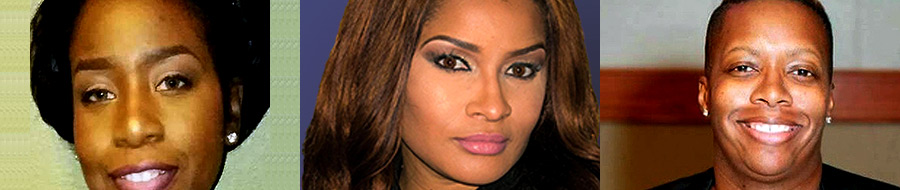
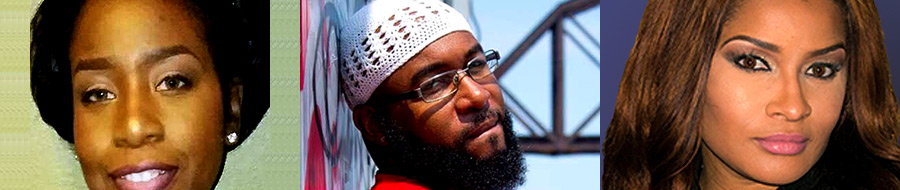
1.27 - Lets Talk Confidence removed

diff --git a/index.htm b/index.htm
@@ -6,10 +6,10 @@
     <meta name="keywords" content="KOVL Radio, St. Louis, Rulers Over the Land, Live with RaeJ, The Easy Treatment Lounge,
                                    Private Times, The Twinz &rsquo;R Inn, Brown Shuga Sunday Brunch, 
                                    Food for your Soul, Friday Forum for Relationships, The Dressing Room, 
-                                   Let's Talk About Confidence, Imagine That, Truth Muzic, What We Doing, 
+                                   Imagine That, Truth Muzic, What We Doing, 
                                    RaeJ Johnson, Eric Weathersby, Bobby Bouch&#233;, Stacy Artice, Tracy Richardson, 
                                    Jamel Johnson, Tyree Thomas, Shernetta Bouier-Blue, Dr. Sandra Michael-Johnson, Sabrina Doss, 
-                                   Michelle Archibald, Qwest, Henry Sims">
+                                   Qwest, Henry Sims">
     <meta name="description" content="KOVLRADIO.COM was founded by two individuals who have a passion for getting their voices heard 
                                       and information to the masses. Utilizing devices such as cellphones, tablets, laptops and 
                                       desktops, these two individuals want to bring you the most in entertainment media! Housed 
@@ -28,7 +28,7 @@
     <link href="assets/bootstrap/css/bootstrap.css" rel="stylesheet">
 
     <!-- Custom CSS -->
-    <link href="assets/css/style.css?v=21" rel="stylesheet">
+    <link href="assets/css/style.css?v=22" rel="stylesheet">
   </head>
   <body>
 		<div id="contact-confirmation_message">
@@ -174,36 +174,6 @@
             <div class="link-listen_now">
               <a href="#" title="Listen Now" onclick="routeToShow();">Listen Now</a>
             </div>
-            <img class="d-block img-fluid" src="assets/img/splash/imagine.jpg?v=2" alt="Imagine That with Dr. Sandra Michael-Johnson">
-            <div class="carousel-item-content" id="carousel-imagine">
-              <!-- <span>
-                Monday Motivation w/ InnerGy is a drive time show to get you ready for the workday and the week ahead. 
-              </span> -->
-              <div class="carousel-listen_now">
-                <span>Listen Now</span>
-                <a href="#" title="Listen Now" onclick="routeToShow();"><img src="assets/img/actions/listen_now.png" width="70" height="72" alt="Listen Now" /></a>
-              </div>
-            </div>
-          </div>
-          <div class="carousel-item">
-            <div class="link-listen_now">
-              <a href="#" title="Listen Now" onclick="routeToShow();">Listen Now</a>
-            </div>
-            <img class="d-block img-fluid" src="assets/img/splash/lets.jpg?v=1" alt="Let&rsquo;s Talk Confidence with Michelle Archibald">
-            <div class="carousel-item-content" id="carousel-lets">
-              <!-- <span>
-                Monday Motivation w/ InnerGy is a drive time show to get you ready for the workday and the week ahead. 
-              </span> -->
-              <div class="carousel-listen_now">
-                <span>Listen Now</span>
-                <a href="#" title="Listen Now" onclick="routeToShow();"><img src="assets/img/actions/listen_now.png" width="70" height="72" alt="Listen Now" /></a>
-              </div>
-            </div>
-          </div>
-          <div class="carousel-item">
-            <div class="link-listen_now">
-              <a href="#" title="Listen Now" onclick="routeToShow();">Listen Now</a>
-            </div>
             <img class="d-block img-fluid" src="../assets/img/splash/truth_muzic.jpg?v=3" alt="Truth Muzic with Qwest">
             <div class="carousel-item-content" id="carousel-truth_muzic">
               <span>
@@ -212,6 +182,18 @@
               <div class="carousel-listen_now">
                 <span>Listen Now</span>
                 <a href="#" title="Listen Now" onclick="routeToShow();"><img src="../assets/img/actions/listen_now.png" width="70" height="72" alt="Listen Now" /></a>
+              </div>
+            </div>
+          </div>
+          <div class="carousel-item">
+            <div class="link-listen_now">
+              <a href="#" title="Listen Now" onclick="routeToShow();">Listen Now</a>
+            </div>
+            <img class="d-block img-fluid" src="assets/img/splash/imagine.jpg?v=2" alt="Imagine That with Dr. Sandra Michael-Johnson">
+            <div class="carousel-item-content" id="carousel-imagine">
+              <div class="carousel-listen_now">
+                <span>Listen Now</span>
+                <a href="#" title="Listen Now" onclick="routeToShow();"><img src="assets/img/actions/listen_now.png" width="70" height="72" alt="Listen Now" /></a>
               </div>
             </div>
           </div>
@@ -361,30 +343,6 @@
           </p>
         </div>
         <div class="show_listing">
-          <a name="imagine"></a>
-          <div class="show_listing-description" id="show_listing-imagine">
-            <span>Imagine That</span>
-          </div>
-          <a href="imagine-that" title="Imagine That"></a>
-					<p class="show_listing-showtime">
-						Tuesday &amp; Thursday
-						<br />
-						11am&ndash;12pm
-					</p>
-        </div>
-        <div class="show_listing">
-          <a name="lets"></a>
-          <div class="show_listing-description" id="show_listing-lets">
-            <span>Let&rsquo;s Talk Confidence</span>
-          </div>
-          <a href="lets-talk-confidence" title="Let&rsquo;s Talk Confidence"></a>
-					<p class="show_listing-showtime">
-						1<sup>st</sup> &amp; 3<sup>rd</sup> Saturday
-						<br />
-						9am&ndash;10am
-					</p>
-        </div>
-        <div class="show_listing">
           <a name="truth-muzic"></a>
           <div class="show_listing-description" id="show_listing-truth_muzic">
             <span>Truth Muzic</span>
@@ -406,6 +364,18 @@
             <br />
             5pm&ndash;7pm
           </p>
+        </div>
+        <div class="show_listing">
+          <a name="imagine"></a>
+          <div class="show_listing-description" id="show_listing-imagine">
+            <span>Imagine That</span>
+          </div>
+          <a href="imagine-that" title="Imagine That"></a>
+					<p class="show_listing-showtime">
+						Tuesday &amp; Thursday
+						<br />
+						11am&ndash;12pm
+					</p>
         </div>
         <div class="show_listing">
           <a name="what_we_doing"></a>
@@ -464,7 +434,7 @@
     <script src="https://cdnjs.cloudflare.com/ajax/libs/tether/1.4.0/js/tether.min.js" integrity="sha384-DztdAPBWPRXSA/3eYEEUWrWCy7G5KFbe8fFjk5JAIxUYHKkDx6Qin1DkWx51bBrb" crossorigin="anonymous"></script>
     <script src="assets/bootstrap/js/bootstrap.min.js"></script>
     <!-- Contains the JS and jQuery to link to streams and animate the 'Shows' menu -->
-    <script src="assets/js/main.js?v=13"></script>
+    <script src="assets/js/main.js?v=14"></script>
     <!-- IE10 viewport hack for Surface/desktop Windows 8 bug -->
     <!-- <script src="../../assets/js/ie10-viewport-bug-workaround.js"></script> -->
   </body>

diff --git a/the-twinz-r-inn/index.htm b/the-twinz-r-inn/index.htm
@@ -15,7 +15,7 @@
       <link href="../assets/bootstrap/css/bootstrap.css" rel="stylesheet">
   
       <!-- Custom CSS -->
-      <link href="../assets/css/style.css?v=21" rel="stylesheet">
+      <link href="../assets/css/style.css?v=22" rel="stylesheet">
     </head>
     <body>
       <div id="header-shows">
@@ -111,7 +111,7 @@
     <script src="https://cdnjs.cloudflare.com/ajax/libs/tether/1.4.0/js/tether.min.js" integrity="sha384-DztdAPBWPRXSA/3eYEEUWrWCy7G5KFbe8fFjk5JAIxUYHKkDx6Qin1DkWx51bBrb" crossorigin="anonymous"></script>
     <script src="../assets/bootstrap/js/bootstrap.min.js"></script>
     <!-- Contains the JS and jQuery to link to streams and animate the 'Shows' menu -->
-    <script src="../assets/js/main.js?v=13"></script>
+    <script src="../assets/js/main.js?v=14"></script>
     <!-- Typekit reference links -->
     <script src="https://use.typekit.net/zvs5kis.js"></script>
     <script>try{Typekit.load({ async: true });}catch(e){}</script>

diff --git a/the-easy-treatment-lounge/index.htm b/the-easy-treatment-lounge/index.htm
@@ -14,7 +14,7 @@
     <link href="../assets/bootstrap/css/bootstrap.css" rel="stylesheet">
 
     <!-- Custom CSS -->
-    <link href="../assets/css/style.css?v=21" rel="stylesheet">
+    <link href="../assets/css/style.css?v=22" rel="stylesheet">
   </head>
   <body>
     <div id="header-shows"></div>
@@ -108,7 +108,7 @@
     <script src="https://cdnjs.cloudflare.com/ajax/libs/tether/1.4.0/js/tether.min.js" integrity="sha384-DztdAPBWPRXSA/3eYEEUWrWCy7G5KFbe8fFjk5JAIxUYHKkDx6Qin1DkWx51bBrb" crossorigin="anonymous"></script>
     <script src="../assets/bootstrap/js/bootstrap.min.js"></script>
     <!-- Contains the JS and jQuery to link to streams and animate the 'Shows' menu -->
-    <script src="../assets/js/main.js?v=13"></script>
+    <script src="../assets/js/main.js?v=14"></script>
     <!-- Typekit reference links -->
     <script src="https://use.typekit.net/zvs5kis.js"></script>
     <script>try{Typekit.load({ async: true });}catch(e){}</script>

diff --git a/food-for-your-soul/index.htm b/food-for-your-soul/index.htm
@@ -20,7 +20,7 @@
     <link href="../assets/bootstrap/css/bootstrap.css" rel="stylesheet">
 
     <!-- Custom CSS -->
-    <link href="../assets/css/style.css?v=21" rel="stylesheet">
+    <link href="../assets/css/style.css?v=22" rel="stylesheet">
   </head>
   <body>
     <div id="header-shows">
@@ -122,7 +122,7 @@
     <script src="https://cdnjs.cloudflare.com/ajax/libs/tether/1.4.0/js/tether.min.js" integrity="sha384-DztdAPBWPRXSA/3eYEEUWrWCy7G5KFbe8fFjk5JAIxUYHKkDx6Qin1DkWx51bBrb" crossorigin="anonymous"></script>
     <script src="../assets/bootstrap/js/bootstrap.min.js"></script>
     <!-- Contains the JS and jQuery to link to streams and animate the 'Shows' menu -->
-    <script src="../assets/js/main.js?v=13"></script>
+    <script src="../assets/js/main.js?v=14"></script>
     <!-- Typekit reference links -->
     <script src="https://use.typekit.net/zvs5kis.js"></script>
     <script>try{Typekit.load({ async: true });}catch(e){}</script>

diff --git a/imagine-that/index.htm b/imagine-that/index.htm
@@ -12,7 +12,7 @@
     <link href="../assets/bootstrap/css/bootstrap.css" rel="stylesheet">
 
     <!-- Custom CSS -->
-    <link href="../assets/css/style.css?v=21" rel="stylesheet">
+    <link href="../assets/css/style.css?v=22" rel="stylesheet">
   </head>
   <body>
     <div id="header-shows">
@@ -105,7 +105,7 @@
     <script src="https://cdnjs.cloudflare.com/ajax/libs/tether/1.4.0/js/tether.min.js" integrity="sha384-DztdAPBWPRXSA/3eYEEUWrWCy7G5KFbe8fFjk5JAIxUYHKkDx6Qin1DkWx51bBrb" crossorigin="anonymous"></script>
     <script src="../assets/bootstrap/js/bootstrap.min.js"></script>
     <!-- Contains the JS and jQuery to link to streams and animate the 'Shows' menu -->
-    <script src="../assets/js/main.js?v=13"></script>
+    <script src="../assets/js/main.js?v=14"></script>
     <!-- Typekit reference links -->
     <script src="https://use.typekit.net/zvs5kis.js"></script>
     <script>try{Typekit.load({ async: true });}catch(e){}</script>

diff --git a/live-with-raej/index.htm b/live-with-raej/index.htm
@@ -20,7 +20,7 @@
     <link href="../assets/bootstrap/css/bootstrap.css" rel="stylesheet">
 
     <!-- Custom CSS -->
-    <link href="../assets/css/style.css?v=21" rel="stylesheet">
+    <link href="../assets/css/style.css?v=22" rel="stylesheet">
   </head>
   <body>
     <div id="header-shows"></div>
@@ -146,7 +146,7 @@
     <script src="https://cdnjs.cloudflare.com/ajax/libs/tether/1.4.0/js/tether.min.js" integrity="sha384-DztdAPBWPRXSA/3eYEEUWrWCy7G5KFbe8fFjk5JAIxUYHKkDx6Qin1DkWx51bBrb" crossorigin="anonymous"></script>
     <script src="../assets/bootstrap/js/bootstrap.min.js"></script>
     <!-- Contains the JS and jQuery to link to streams and animate the 'Shows' menu -->
-    <script src="../assets/js/main.js?v=13"></script>
+    <script src="../assets/js/main.js?v=14"></script>
     <!-- IE10 viewport hack for Surface/desktop Windows 8 bug -->
     <!-- <script src="../../assets/js/ie10-viewport-bug-workaround.js"></script> -->
   </body>

diff --git a/the-dressing-room/index.htm b/the-dressing-room/index.htm
@@ -12,7 +12,7 @@
     <link href="../assets/bootstrap/css/bootstrap.css" rel="stylesheet">
 
     <!-- Custom CSS -->
-    <link href="../assets/css/style.css?v=21" rel="stylesheet">
+    <link href="../assets/css/style.css?v=22" rel="stylesheet">
   </head>
   <body>
     <div id="header-shows">
@@ -105,7 +105,7 @@
     <script src="https://cdnjs.cloudflare.com/ajax/libs/tether/1.4.0/js/tether.min.js" integrity="sha384-DztdAPBWPRXSA/3eYEEUWrWCy7G5KFbe8fFjk5JAIxUYHKkDx6Qin1DkWx51bBrb" crossorigin="anonymous"></script>
     <script src="../assets/bootstrap/js/bootstrap.min.js"></script>
     <!-- Contains the JS and jQuery to link to streams and animate the 'Shows' menu -->
-    <script src="../assets/js/main.js?v=13"></script>
+    <script src="../assets/js/main.js?v=14"></script>
     <!-- Typekit reference links -->
     <script src="https://use.typekit.net/zvs5kis.js"></script>
     <script>try{Typekit.load({ async: true });}catch(e){}</script>

diff --git a/truth-muzic/index.htm b/truth-muzic/index.htm
@@ -16,7 +16,7 @@
     <link href="../assets/bootstrap/css/bootstrap.css" rel="stylesheet">
 
     <!-- Custom CSS -->
-    <link href="../assets/css/style.css?v=21" rel="stylesheet">
+    <link href="../assets/css/style.css?v=22" rel="stylesheet">
   </head>
   <body>
     <div id="header-shows">
@@ -120,7 +120,7 @@
     <script src="https://cdnjs.cloudflare.com/ajax/libs/tether/1.4.0/js/tether.min.js" integrity="sha384-DztdAPBWPRXSA/3eYEEUWrWCy7G5KFbe8fFjk5JAIxUYHKkDx6Qin1DkWx51bBrb" crossorigin="anonymous"></script>
     <script src="../assets/bootstrap/js/bootstrap.min.js"></script>
     <!-- Contains the JS and jQuery to link to streams and animate the 'Shows' menu -->
-    <script src="../assets/js/main.js?v=13"></script>
+    <script src="../assets/js/main.js?v=14"></script>
     <!-- Typekit reference links -->
     <script src="https://use.typekit.net/zvs5kis.js"></script>
     <script>try{Typekit.load({ async: true });}catch(e){}</script>

diff --git a/what-we-doing/index.htm b/what-we-doing/index.htm
@@ -16,7 +16,7 @@
     <link href="../assets/bootstrap/css/bootstrap.css" rel="stylesheet">
 
     <!-- Custom CSS -->
-    <link href="../assets/css/style.css?v=21" rel="stylesheet">
+    <link href="../assets/css/style.css?v=22" rel="stylesheet">
   </head>
   <body>
     <div id="header-shows">
@@ -96,7 +96,7 @@
     <script src="https://cdnjs.cloudflare.com/ajax/libs/tether/1.4.0/js/tether.min.js" integrity="sha384-DztdAPBWPRXSA/3eYEEUWrWCy7G5KFbe8fFjk5JAIxUYHKkDx6Qin1DkWx51bBrb" crossorigin="anonymous"></script>
     <script src="../assets/bootstrap/js/bootstrap.min.js"></script>
     <!-- Contains the JS and jQuery to link to streams and animate the 'Shows' menu -->
-    <script src="../assets/js/main.js?v=13"></script>
+    <script src="../assets/js/main.js?v=14"></script>
     <!-- Typekit reference links -->
     <script src="https://use.typekit.net/zvs5kis.js"></script>
     <script>try{Typekit.load({ async: true });}catch(e){}</script>

diff --git a/company/about-kovl.htm b/company/about-kovl.htm
@@ -23,7 +23,7 @@
     <link href="../assets/bootstrap/css/bootstrap.css" rel="stylesheet">
 
     <!-- Custom CSS -->
-    <link href="../assets/css/style.css?v=21" rel="stylesheet">
+    <link href="../assets/css/style.css?v=22" rel="stylesheet">
   </head>
   <body>
     <div id="header-shows">
@@ -103,7 +103,7 @@
     <script src="https://cdnjs.cloudflare.com/ajax/libs/tether/1.4.0/js/tether.min.js" integrity="sha384-DztdAPBWPRXSA/3eYEEUWrWCy7G5KFbe8fFjk5JAIxUYHKkDx6Qin1DkWx51bBrb" crossorigin="anonymous"></script>
     <script src="../assets/bootstrap/js/bootstrap.min.js"></script>
     <!-- Contains the JS and jQuery to link to streams and animate the 'Shows' menu -->
-    <script src="../assets/js/main.js?v=13"></script>
+    <script src="../assets/js/main.js?v=14"></script>
     <!-- IE10 viewport hack for Surface/desktop Windows 8 bug -->
     <!-- <script src="../../assets/js/ie10-viewport-bug-workaround.js"></script> -->
   </body>

diff --git a/private-times/index.htm b/private-times/index.htm
@@ -17,7 +17,7 @@
 		<link href="../assets/bootstrap/css/bootstrap.css" rel="stylesheet">
 
 		<!-- Custom CSS -->
-		<link href="../assets/css/style.css?v=21" rel="stylesheet">
+		<link href="../assets/css/style.css?v=22" rel="stylesheet">
 	</head>
 	<body>
 		<div id="header-shows"></div>
@@ -115,7 +115,7 @@
     <script src="https://cdnjs.cloudflare.com/ajax/libs/tether/1.4.0/js/tether.min.js" integrity="sha384-DztdAPBWPRXSA/3eYEEUWrWCy7G5KFbe8fFjk5JAIxUYHKkDx6Qin1DkWx51bBrb" crossorigin="anonymous"></script>
     <script src="../assets/bootstrap/js/bootstrap.min.js"></script>
     <!-- Contains the JS and jQuery to link to streams and animate the 'Shows' menu -->
-    <script src="../assets/js/main.js?v=13"></script>
+    <script src="../assets/js/main.js?v=14"></script>
     <!-- Typekit reference links -->
     <script src="https://use.typekit.net/zvs5kis.js"></script>
     <script>try{Typekit.load({ async: true });}catch(e){}</script>

diff --git a/assets/css/style.css b/assets/css/style.css
@@ -537,25 +537,21 @@ h5,
 
 #show_listing-food + a, 
 #show_listing-imagine + a, 
-#show_listing-lets + a  {
-  background-image: url('../img/listings/row_3.jpg?v=4');
+#show_listing-truth_muzic + a  {
+  background-image: url('../img/listings/row_3.jpg?v=5');
+}
+
+#show_listing-truth_muzic + a {
+  background-position-x: -300px;
 }
 
 #show_listing-imagine + a {
-  background-position-x: -300px;
-}
-
-#show_listing-lets + a {
   background-position-x: -600px;
 }
 
-#show_listing-truth_muzic + a, 
-#show_listing-what_we_doing + a{
-  background-image: url('../img/listings/row_4.jpg?v=6');
-}
-
-#show_listing-what_we_doing + a { 
-  background-position-x: -300px;
+ 
+#show_listing-what_we_doing + a {
+  background-image: url('../img/listings/row_4.jpg?v=7');
 }
 
 .show_listing-social_media {
